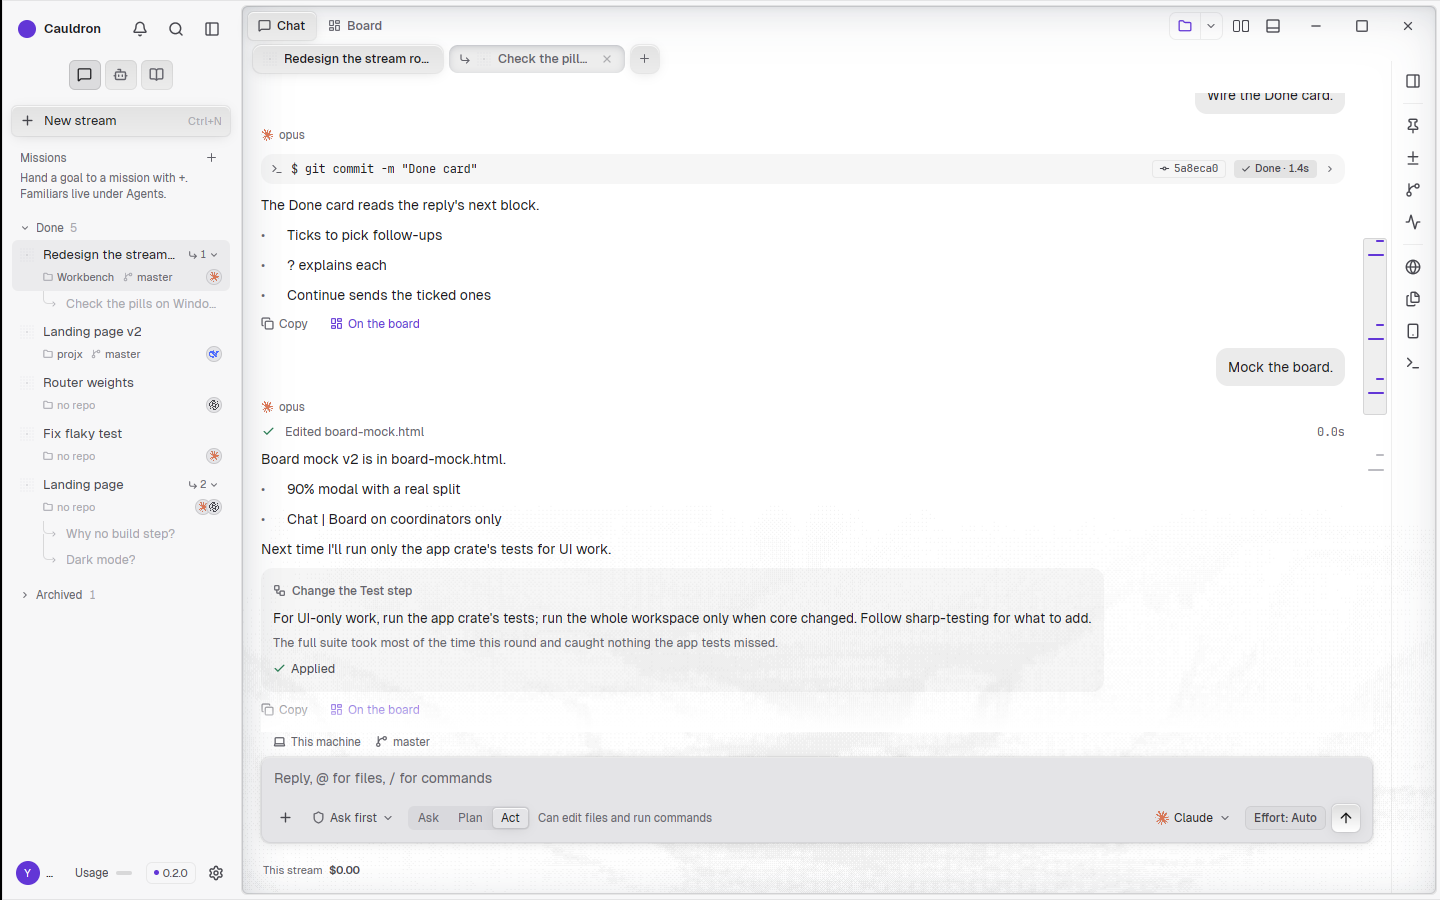
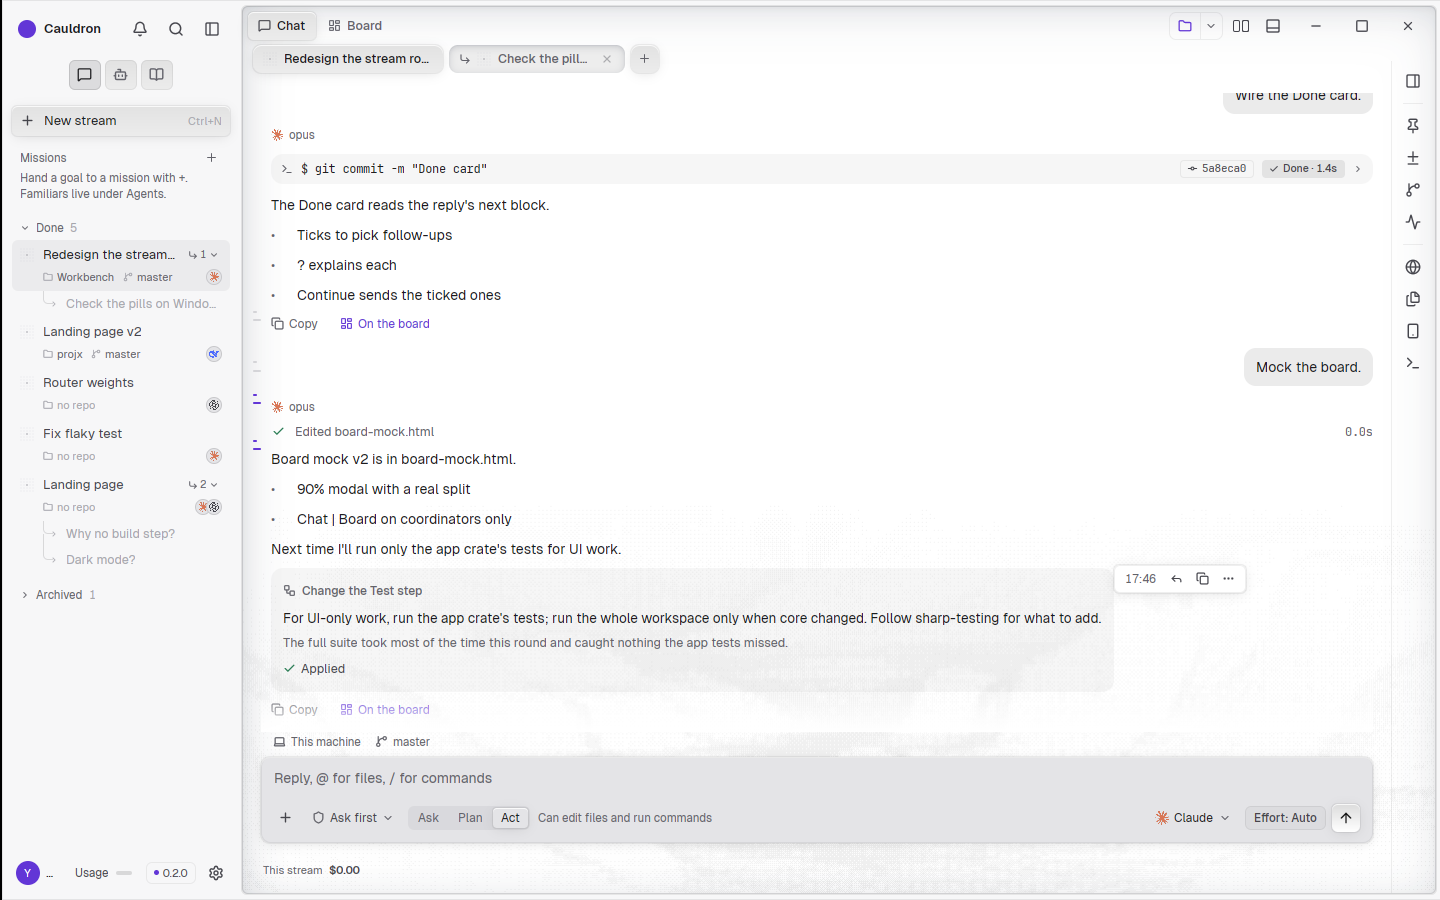
Stream map: on the thread's left, thin at rest, open on hover
The map sits left of the thread, centred, with the same space on each
side. At rest only the messages in view are lit; hovering grows it and
shows the view window on a halo of the card's colour. Item bounds no
longer take the scroll offset twice, and the map holds messages past
the scroll's extent. README shots and text follow.

Claude-Session: https://claude.ai/code/session_01PXw74MkooySPeWhHxyvvjv

diff --git a/crates/app/src/shell/thread.rs b/crates/app/src/shell/thread.rs
@@ -378,37 +378,48 @@ impl OpenIn {
 }
 
 impl Cauldron {
-    /// The stream's map (see `map_marks`), drawn from last frame's layout of the transcript.
+    /// The stream's map (see `map_marks`), drawn from last frame's layout of the transcript. It sits
+    /// on the thread's left, centred on the transcript, `MAP_GAP` from the card's edge and from the
+    /// messages (Charles, 22 Nov 22:55Z). At rest it is a thin rail where only the messages in view
+    /// are lit; under the pointer it grows, shows the window over the view and sits on a soft halo of
+    /// the card's colour that hides the text behind it.
     #[inline(never)]
-    fn stream_map(&self, mine: &[bool], pal: &'static Palette, cx: &mut Context<Self>) -> AnyElement {
-        const RAIL_W: f32 = 24.;
+    fn stream_map(&self, mine: &[bool], top_pad: f32, pal: &'static Palette, cx: &mut Context<Self>) -> AnyElement {
+        let open = self.map_hover;
         let sh = &self.transcript_scroll;
         let vb = sh.bounds();
         let view_h = f32::from(vb.size.height);
         let off = -f32::from(sh.offset().y);
         let total = view_h + f32::from(sh.max_offset().y);
-        let rail = (view_h - 48.).clamp(60., 320.);
+        let full = (view_h - 48.).clamp(60., 320.);
+        let rail = if open { full } else { (full * 0.6).clamp(48., 200.) };
+        let (w, pad) = if open { (MAP_OPEN_W, 8.) } else { (MAP_W, 6.) };
+        // An item's bounds are already in the whole content's terms (they don't move with the
+        // scroll), so they take no offset.
         let items: Vec<(f32, f32)> = (0..mine.len())
-            .map(|i| sh.bounds_for_item(i).map_or((0., 0.), |b| (f32::from(b.origin.y - vb.origin.y) + off, f32::from(b.size.height))))
+            .map(|i| sh.bounds_for_item(i).map_or((0., 0.), |b| (f32::from(b.origin.y - vb.origin.y), f32::from(b.size.height))))
             .collect();
         let (marks, (wy, wh)) = map_marks(&items, off, view_h, total, rail);
-        let mut col = div().id("ticks").absolute().right(px(4.)).top(px(16.)).w(px(RAIL_W)).h(px(rail)).cursor_pointer().aria_label("Map of the stream");
+        let mut col = div().relative().w(px(w)).h(px(rail));
         // Last frame's place, for a click or a drag.
         let cell = self.map_box.clone();
         col = col.child(canvas(move |b, _, _| cell.set(b), |_, _, _, _| {}).absolute().inset_0());
-        col = col.child(div().id("map-window").absolute().top(px(wy)).h(px(wh)).left_0().right_0().rounded(px(3.)).bg(ca(pal.fg, 0.07)).border_1().border_color(ca(pal.fg, 0.12)).test_support());
+        if open {
+            col = col.child(div().id("map-window").absolute().top(px(wy)).h(px(wh)).left(px(-3.)).right(px(-3.)).rounded(px(3.)).bg(ca(pal.fg, 0.07)).border_1().border_color(ca(pal.fg, 0.12)).test_support());
+        }
         for (k, ((y, h), me)) in marks.iter().zip(mine).enumerate() {
-            // In view when any of it is: the window over it lights it.
+            // In view when any of it is: those are the only lit marks.
             let seen = *y + *h > wy && *y < wy + wh;
-            let ink = if seen { c(pal.accent) } else { ca(pal.fg4, 0.75) };
+            let ink = if seen { c(pal.accent) } else { ca(pal.fg4, if open { 0.75 } else { 0.4 }) };
+            let long = if open { w } else { MAP_W };
             col = col.child(
                 div()
                     .id(("tick", k))
                     .absolute()
-                    .top(px(*y + 2.))
+                    .top(px(*y))
                     .h(px(2.))
-                    .right(px(3.))
-                    .w(px(if *me { 8. } else { 16. }))
+                    .left_0()
+                    .w(px(if *me { long * 0.5 } else { long }))
                     .rounded(px(1.))
                     .bg(ink)
                     .aria_label(if *me { "Your message" } else { "Response" })
@@ -416,6 +427,26 @@ impl Cauldron {
                     .test_support(),
             );
         }
+        let bg = super::backdrop::card_bg(false, pal);
+        let col = div()
+            .id("ticks")
+            .absolute()
+            .left(px(MAP_GAP - pad))
+            .top(px(top_pad + (view_h - rail) / 2. - pad))
+            .p(px(pad))
+            .rounded(px(10.))
+            .cursor_pointer()
+            .aria_label("Map of the stream")
+            .when_live(open, |d| {
+                d.bg(bg.opacity(0.86)).shadow(vec![BoxShadow { color: bg.opacity(0.9), offset: point(px(0.), px(0.)), blur_radius: px(22.), spread_radius: px(10.), inset: false }, BoxShadow { color: hsla(0., 0., 0., 0.12), offset: point(px(0.), px(6.)), blur_radius: px(18.), spread_radius: px(-6.), inset: false }])
+            })
+            .on_hover(cx.listener(|this, h: &bool, _, cx| {
+                if this.map_hover != *h {
+                    this.map_hover = *h;
+                    cx.notify();
+                }
+            }))
+            .child(col);
         let jump = move |this: &mut Self, y: Pixels| {
             let b = this.map_box.get();
             let to = map_offset(f32::from(y - b.origin.y), f32::from(b.size.height), total, view_h);
@@ -439,9 +470,16 @@ impl Cauldron {
     }
 }
 
+/// The map's width at rest and under the pointer, and the space on each side of it at rest.
+pub(super) const MAP_W: f32 = 8.;
+const MAP_OPEN_W: f32 = 36.;
+pub(super) const MAP_GAP: f32 = 10.;
+
 /// The stream's map: each message's (top, height) in the whole scrolled content, scaled onto a
 /// rail `rail` px tall, and the window over the view (top, height). Each mark is at least 2px.
 pub(super) fn map_marks(items: &[(f32, f32)], view_top: f32, view_h: f32, total: f32, rail: f32) -> (Vec<(f32, f32)>, (f32, f32)) {
+    // The scroll's own extent can lag the laid-out messages; the map must hold every one.
+    let total = items.iter().fold(total, |m, (t, h)| m.max(t + h));
     let k = if total > 0. { rail / total } else { 0. };
     let marks = items.iter().map(|(t, h)| (t * k, (h * k - 1.).max(2.))).collect();
     let win = (view_top * k, (view_h * k).clamp(4., rail));
@@ -1329,12 +1367,14 @@ impl Cauldron {
             }
             bar.test_support()
         });
-        // The stream's map on the right edge (the board's `.mm`): every message at its place in the
-        // whole stream, scaled to the rail (replies long, yours short), and a window over the part
-        // in view. It follows the scroll; a click or a drag on it scrolls there (Charles, 22 Nov).
-        let ticks = (replies.len() > 1).then(|| self.stream_map(&mine_rows, pal, cx));
-        // Room on the right for the ticks, so they never sit over a bubble.
-        let msgs = msgs.when_live(ticks.is_some(), |d| d.pr(px(28.))).on_scroll_wheel(cx.listener(|_, _, _, cx| cx.notify()));
+        // The stream's map on the thread's left (the board's `.mm`): every message at its place in
+        // the whole stream, scaled to the rail (replies long, yours short). It follows the scroll; a
+        // click or a drag on it scrolls there (Charles, 22 Nov).
+        let (pad_x, pad_y) = (if narrow { 10. } else { 18. }, if short { 8. } else { 14. });
+        let ticks = (replies.len() > 1).then(|| self.stream_map(&mine_rows, pad_y, pal, cx));
+        // Room on the left for the resting map, the same space on both its sides.
+        let lead = (MAP_GAP * 2. + MAP_W - pad_x).max(0.);
+        let msgs = msgs.when_live(ticks.is_some(), |d| d.pl(px(lead))).on_scroll_wheel(cx.listener(|_, _, _, cx| cx.notify()));
         div()
             .id("thread")
             .relative()
@@ -1342,8 +1382,8 @@ impl Cauldron {
             .flex()
             .flex_col()
             .gap(px(if short { 6. } else { 10. }))
-            .px(px(if narrow { 10. } else { 18. }))
-            .py(px(if short { 8. } else { 14. }))
+            .px(px(pad_x))
+            .py(px(pad_y))
             .child(msgs.test_support())
             .children(ticks)
             .child(
@@ -1449,6 +1489,14 @@ pub(super) mod tests {
             assert!(window.try_find("nt-box").is_some(), "and with nothing focused");
         })
         .unwrap();
+    }
+
+    #[::core::prelude::v1::test]
+    fn the_stream_map_holds_messages_past_the_scroll_extent() {
+        // The scroll extent says 1000px, but the last message ends at 1200: it must still fit the rail.
+        let (marks, _) = super::map_marks(&[(0., 100.), (1100., 100.)], 0., 250., 1000., 120.);
+        let (top, h) = marks[1];
+        assert!(top + h <= 120., "the last mark ends inside the rail, got {}", top + h);
     }
 
     /// The map is the whole stream scaled: a message halfway down sits halfway down the rail,

diff --git a/crates/app/src/shell.rs b/crates/app/src/shell.rs
@@ -415,6 +415,8 @@ pub(crate) struct Cauldron {
     image_view: Option<std::path::PathBuf>,
     /// Where the stream's map sat last frame (thread.rs), for a click or drag on it.
     map_box: std::rc::Rc<std::cell::Cell<Bounds<Pixels>>>,
+    /// The pointer is over the stream map: it is drawn open.
+    map_hover: bool,
     /// The flow step being edited in Settings > Flow.
     flow_edit: Option<flowview::FlowEdit>,
     /// The Automations page: every familiar's jobs on a clock, and the form (automations.rs).
@@ -748,7 +750,7 @@ impl Cauldron {
     }
 
     pub(crate) fn new() -> Self {
-        Cauldron { motion: ShellMotion::default(), section: 0, section_from: 0.0, section_since: None, swap: None, action_since: None, busy_shown: false, open_since: None, bubble_since: None, mine_for: None, mine_n_shown: 0, drawer_last: Some(Panel::Highlights), sidebar_open: true, drawer: None, support_tabs: vec![Panel::Highlights], support_menu: false, support_data: Default::default(), diff_since: None, restore_ask: false, files_open: Default::default(), painting: false, glass: Default::default(), plane: Default::default(), mark_ticker: None, ask_hover: false, ask_open: None, ask_answered: Default::default(), fam_questions: Default::default(), frost: backdrop::FrostLevel::Heavy, stream_bg: None, bg_wipe: None, stream_menu: None, closed_sides: Default::default(), sides_folded: Default::default(), groups_folded: Default::default(), done_open: true, snooze_open: false, done_card: Default::default(), board: Default::default(), archive_open: false, color_target: theme::Target::Sidebar, hex_input: None, theme_mode: String::new(), root_focus: None, plan: false, open_in_menu: false, open_in: thread::OpenIn::Folder, search_open: false, indent: false, indent_run: (0.0, None), indent_to: 0.0, sidebar_w: metric::SIDEBAR_W, sidebar_drag: None, link: None, link_menu: None, link_hover: Default::default(), browser: Default::default(), browser_slot: Default::default(), usage: Default::default(), usage_page: false, section_page: false, pages: Default::default(), usage_hover: false, usage_card_hover: false, settings: None, accounts_file: None, terminal: false, term_blocks: Vec::new(), term_runs: Default::default(), term_cache: Default::default(), act_open: Default::default(), act_tick: None, term_input: None, term_note: None, term_scroll: ScrollHandle::new(), panes: Split::default(), layout_since: None, pane_drag: None, pane_content: [panes::Content::Thread, panes::Content::Empty, panes::Content::Empty], pane_focus: Vec::new(), thread_box: std::cell::Cell::new((0.0, 0.0)), transcript_scroll: ScrollHandle::new(), transcript_seen: Default::default(), transcript_fit: Default::default(), paced: Default::default(), pace_behind: Default::default(), coordinator: None, familiar: None, fam_views: Vec::new(), fam_live: Vec::new(), fam_watch: Vec::new(), fam_driving: Default::default(), fam_error: None, fam_composer: None, fam_fixture: false, inbox: Vec::new(), inbox_open: false, update: Default::default(), update_open: false, cli_rows: Vec::new(), inbox_toast: None, fam_from: (0.0, 0.0), fam_to: None, fam_since: None, fam_hl: 0, agents: Vec::new(), idle: Vec::new(), active: 0, reveal: false, tab_window: 0, wheel: 0.0, tab_menu: false, tab_slide: Default::default(), tab_focus: None, tip: None, tip_shown: false, tip_warm_until: None, tip_wait: None, tab_first: 0, threads: Threads::Ready(Vec::new()), selected: None, query: String::new(), search: None, list_focus: None, core: None, watch: None, open: None, thread: None, steps: Default::default(), composer: None, send_error: None, start: Default::default(), err_open: Default::default(), side_root: None, sides: Vec::new(), side_win: false, side_input: None, side_ctx: Default::default(), block_hover: None, bar_hover: false, block_menu: None, sel: None, copied: None, ask: false, reply_files: Vec::new(), slash_sel: 0, slash_closed: false, slash_cmds: Default::default(), plan_open: false, plan_flips: 0, chip_menu: None, plan_hover: None, plan_edit: None, autos: Default::default(), agent_open: None, autos_page: false, session_pick: None, image_view: None, map_box: Default::default(), flow_edit: None }
+        Cauldron { motion: ShellMotion::default(), section: 0, section_from: 0.0, section_since: None, swap: None, action_since: None, busy_shown: false, open_since: None, bubble_since: None, mine_for: None, mine_n_shown: 0, drawer_last: Some(Panel::Highlights), sidebar_open: true, drawer: None, support_tabs: vec![Panel::Highlights], support_menu: false, support_data: Default::default(), diff_since: None, restore_ask: false, files_open: Default::default(), painting: false, glass: Default::default(), plane: Default::default(), mark_ticker: None, ask_hover: false, ask_open: None, ask_answered: Default::default(), fam_questions: Default::default(), frost: backdrop::FrostLevel::Heavy, stream_bg: None, bg_wipe: None, stream_menu: None, closed_sides: Default::default(), sides_folded: Default::default(), groups_folded: Default::default(), done_open: true, snooze_open: false, done_card: Default::default(), board: Default::default(), archive_open: false, color_target: theme::Target::Sidebar, hex_input: None, theme_mode: String::new(), root_focus: None, plan: false, open_in_menu: false, open_in: thread::OpenIn::Folder, search_open: false, indent: false, indent_run: (0.0, None), indent_to: 0.0, sidebar_w: metric::SIDEBAR_W, sidebar_drag: None, link: None, link_menu: None, link_hover: Default::default(), browser: Default::default(), browser_slot: Default::default(), usage: Default::default(), usage_page: false, section_page: false, pages: Default::default(), usage_hover: false, usage_card_hover: false, settings: None, accounts_file: None, terminal: false, term_blocks: Vec::new(), term_runs: Default::default(), term_cache: Default::default(), act_open: Default::default(), act_tick: None, term_input: None, term_note: None, term_scroll: ScrollHandle::new(), panes: Split::default(), layout_since: None, pane_drag: None, pane_content: [panes::Content::Thread, panes::Content::Empty, panes::Content::Empty], pane_focus: Vec::new(), thread_box: std::cell::Cell::new((0.0, 0.0)), transcript_scroll: ScrollHandle::new(), transcript_seen: Default::default(), transcript_fit: Default::default(), paced: Default::default(), pace_behind: Default::default(), coordinator: None, familiar: None, fam_views: Vec::new(), fam_live: Vec::new(), fam_watch: Vec::new(), fam_driving: Default::default(), fam_error: None, fam_composer: None, fam_fixture: false, inbox: Vec::new(), inbox_open: false, update: Default::default(), update_open: false, cli_rows: Vec::new(), inbox_toast: None, fam_from: (0.0, 0.0), fam_to: None, fam_since: None, fam_hl: 0, agents: Vec::new(), idle: Vec::new(), active: 0, reveal: false, tab_window: 0, wheel: 0.0, tab_menu: false, tab_slide: Default::default(), tab_focus: None, tip: None, tip_shown: false, tip_warm_until: None, tip_wait: None, tab_first: 0, threads: Threads::Ready(Vec::new()), selected: None, query: String::new(), search: None, list_focus: None, core: None, watch: None, open: None, thread: None, steps: Default::default(), composer: None, send_error: None, start: Default::default(), err_open: Default::default(), side_root: None, sides: Vec::new(), side_win: false, side_input: None, side_ctx: Default::default(), block_hover: None, bar_hover: false, block_menu: None, sel: None, copied: None, ask: false, reply_files: Vec::new(), slash_sel: 0, slash_closed: false, slash_cmds: Default::default(), plan_open: false, plan_flips: 0, chip_menu: None, plan_hover: None, plan_edit: None, autos: Default::default(), agent_open: None, autos_page: false, session_pick: None, image_view: None, map_box: Default::default(), map_hover: false, flow_edit: None }
     }
 
     /// Opens core off the main thread (the sidebar shows Loading meanwhile), then keeps the thread

diff --git a/README.md b/README.md
@@ -15,7 +15,7 @@
   <a href="docs/HOW-IT-WORKS.md">How it works, in full</a>
 </sub></p>
 
-<p align="center"><a href="docs/assets/cauldron/stream.png"><img src="docs/assets/cauldron/stream.png" alt="A stream: the sidebar with New stream and the streams grouped by state; the agent's replies with a git commit card, an applied flow change and On the board links; the composer with Ask, Plan and Act; the stream map on the right edge." width="100%"></a></p>
+<p align="center"><a href="docs/assets/cauldron/stream.png"><img src="docs/assets/cauldron/stream.png" alt="A stream: the sidebar with New stream and the streams grouped by state; the agent's replies with a git commit card, an applied flow change and On the board links; the composer with Ask, Plan and Act; the stream map on the left of the thread." width="100%"></a></p>
 
 ---
 
@@ -75,7 +75,8 @@ Cauldron doesn't bring its own model. It finds Claude Code, Codex, Cursor, Grok,
 
 - **Sidebar.** The top row has notifications, search and the sidebar toggle. Under it are Streams, Agents and Library, then **New stream** (Ctrl+N), then your streams: running ones first, then Done and Archived. Each row shows its folder, its branch and the CLI it runs on. Usage and settings sit at the bottom.
 - **Header.** In a stream, **Chat | Board** sits at the top left and the stream's tabs (the stream and its side streams) sit under it. At the top right are the folder, split view and terminal buttons.
-- **Right edge.** The stream map shows the whole stream to scale; click or drag it to jump. The icons beside it open the panels: Highlights, Changes, Git, Trace, Browser, Files, Simulator and the terminal.
+- **Stream map.** A thin rail on the left of the thread shows the whole stream to scale, with the part in view lit. Hover it to open it; click or drag to jump.
+- **Right edge.** The icons open the panels: Highlights, Changes, Git, Trace, Browser, Files, Simulator and the terminal.
 - **Settings** has six pages: Agents and subscriptions, Flow, General, Appearance, Machines and Shortcuts. Appearance switches between the plain background (the one in these screenshots) and the painted one.
 
 ### Good to know

diff --git a/HANDOFF.md b/HANDOFF.md
@@ -7,6 +7,13 @@ is now, with screenshots on the plain (ASCII dither) background. The README now 
 AGENTS.md, Xvfb screenshots). New shots are in `docs/assets/cauldron/`, taken at 1440x900 with
 `backdrop: "plain"` and fixture data; the old `docs/assets/app-*.png` stay for the docs that use them.
 
+- **Stream map moved to the left** (Charles 22:55Z). It sits left of the thread, centred on the
+  transcript, 10px from the card edge and from the messages. At rest it is an 8px rail where only
+  the messages in view are lit; hovering opens it (36px, the view window, a card-coloured halo; GPUI
+  has no backdrop blur, so the halo stands in for one). Fixed on the way: item bounds were offset by
+  the scroll twice, so the lit marks and the window disagreed; and `map_marks` now holds messages
+  past the scroll's extent.
+
 **Session, 21 Nov 2026 (round 2): meter bar, lifted frame, four pages.** Charles: "go with after", the content frame gets the same effect as buttons and chat boxes, Usage/Folders/Agents/Library match the destinations board. Done: `Lift::Frame` (long shadow, close lip, stronger edge and top light) on the main, support and split cards; the usage foot is now a meter bar (one slim bar per connected account, no percentage, since several subscriptions have no honest single number), opened by clicking it or by "Open Usage" in the hover card; `shell/pages.rs` holds the Folders (glass tiles, ghost Librarian proposal, New folder), Agents (roster, crew, composer, context panel), Library (Proposals with Accept/Undo, Notes, Graph, Librarian) and the Usage page's hour-by-hour activity tracker (core `usage::activity`, real prompts and tool calls from the CLIs' logs). Mockup parts are tagged: Librarian proposals/notes/graph, agent context/traces/routines, the Agents roster when no familiar exists. Debug env: `CAULDRON_FIXTURE_ACTIVITY=1` fills the heatmap. Not done: notify-at-80% toggle, rotated sheets in the folder art (GPUI has no transforms), real limit percentages (none in local logs). Screenshots: docs/screenshots/pages-r2/.
 
 **Session, 21 Nov 2026: usage beside your name, the frame border back, room above the apps.**
